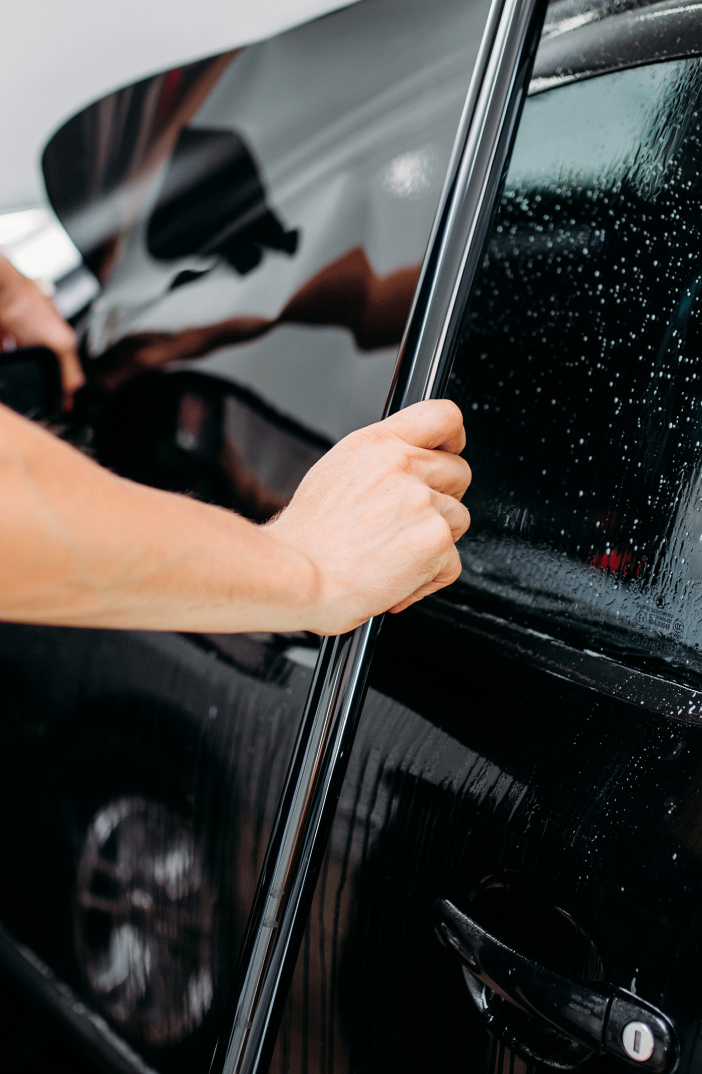
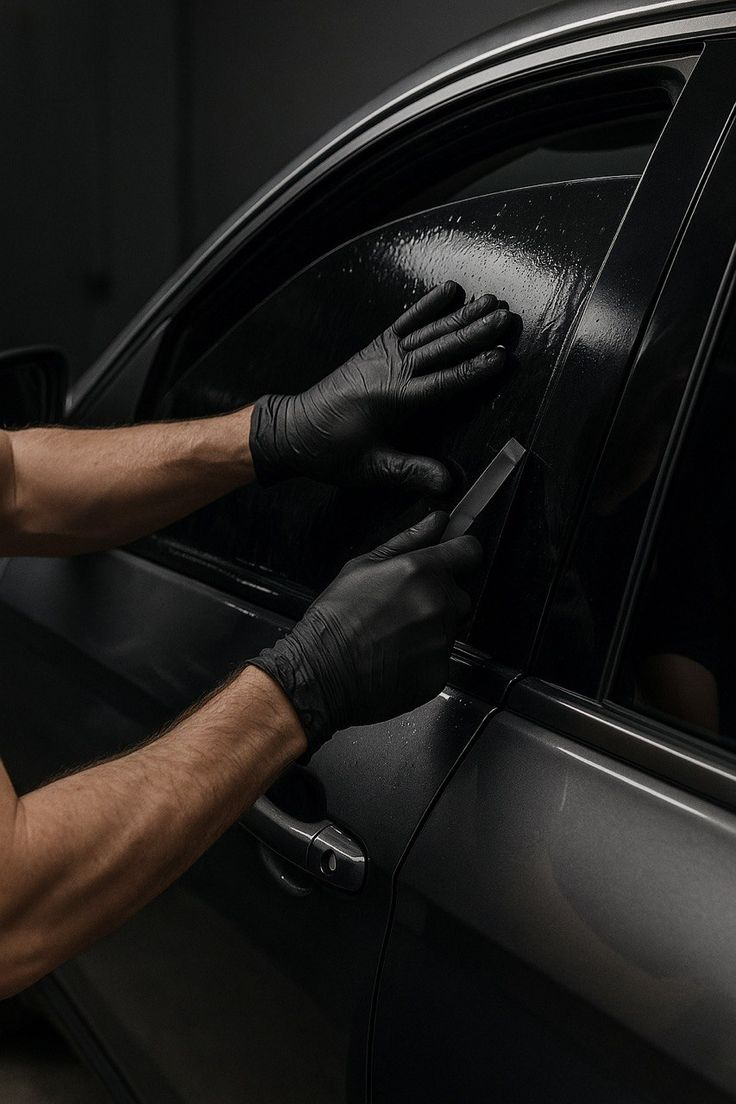
Update homepage background and service images

diff --git a/pages/index.module.scss b/pages/index.module.scss
@@ -1,6 +1,6 @@
 
 .home {
-	background: url(/img/home-bg.jpg) no-repeat center / cover #111;
+	background: url(/img/home-bg.avif) no-repeat center / cover #111;
 	color: #fff;
 	overflow: hidden;
 
